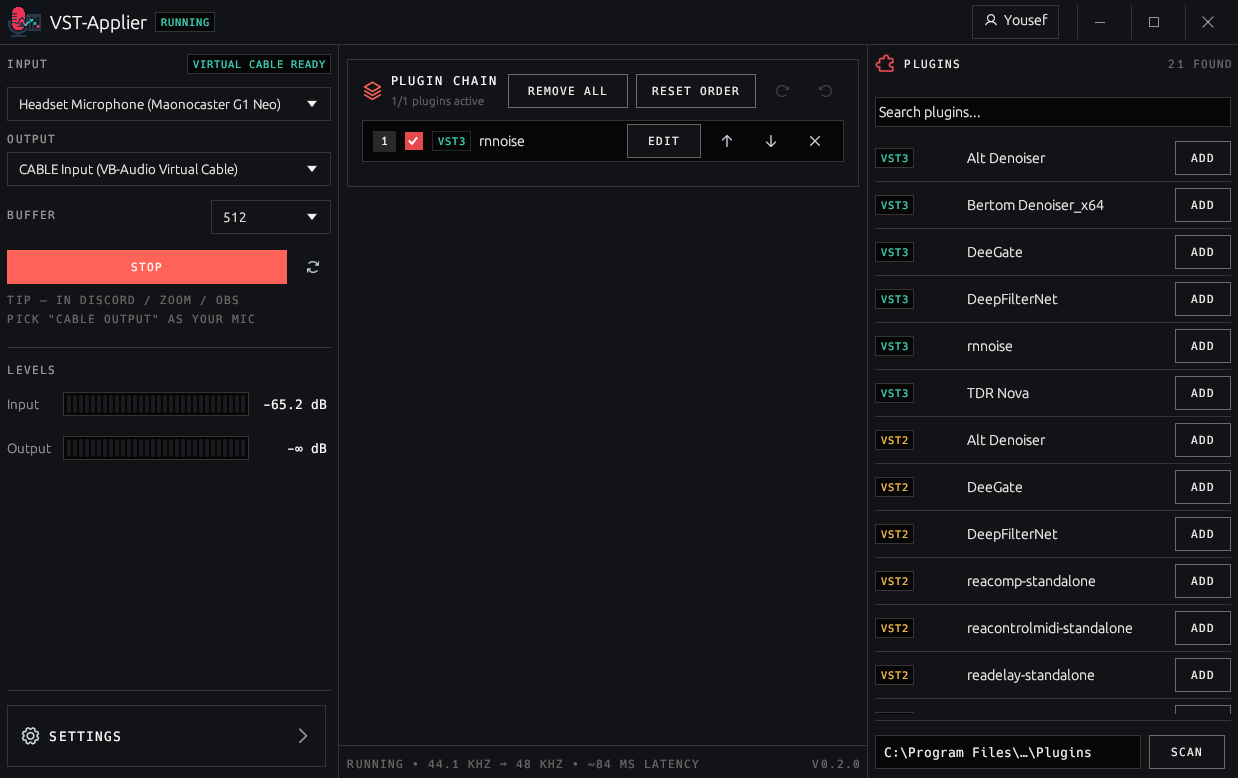
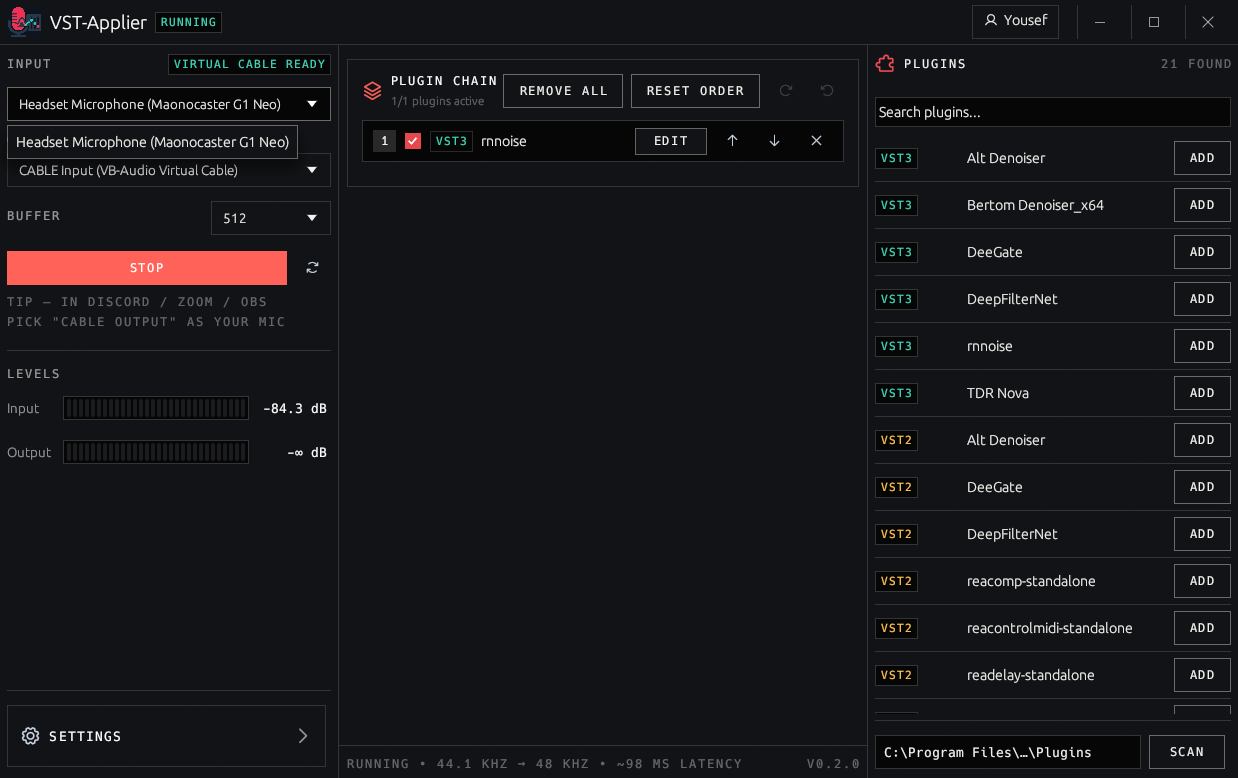
ui: balance row controls vs text — hud/mono labels 11->12, badges 10->11, checkbox 20->18 with lighter check, arrow/x glyphs 16->14.5 in tighter cells, chain EDIT 34->27 tall

diff --git a/src/icons.rs b/src/icons.rs
@@ -113,7 +113,7 @@ fn glyph_str(kind: Glyph) -> &'static str {
 /// Ghost button with a font glyph. Hover inverts to white/black like
 /// the launcher's header cells, so row actions read instantly.
 pub fn glyph_button(ui: &mut Ui, kind: Glyph, tip: &str) -> egui::Response {
-    let (rect, resp) = ui.allocate_exact_size(Vec2::new(36.0, 28.0), egui::Sense::click());
+    let (rect, resp) = ui.allocate_exact_size(Vec2::new(34.0, 28.0), egui::Sense::click());
     let p = ui.painter();
     let invert = resp.hovered() && resp.enabled();
     if resp.is_pointer_button_down_on() {
@@ -136,7 +136,7 @@ pub fn glyph_button(ui: &mut Ui, kind: Glyph, tip: &str) -> egui::Response {
         rect.center(),
         egui::Align2::CENTER_CENTER,
         glyph_str(kind),
-        egui::FontId::proportional(16.0),
+        egui::FontId::proportional(14.5),
         color,
     );
     resp.on_hover_text(tip)
@@ -144,15 +144,15 @@ pub fn glyph_button(ui: &mut Ui, kind: Glyph, tip: &str) -> egui::Response {
 
 /// Red enable/disable checkbox (reference style). Returns true on toggle.
 pub fn checkbox_red(ui: &mut Ui, checked: &mut bool) -> bool {
-    let (rect, resp) = ui.allocate_exact_size(Vec2::splat(20.0), egui::Sense::click());
+    let (rect, resp) = ui.allocate_exact_size(Vec2::splat(18.0), egui::Sense::click());
     let p = ui.painter();
     let inner = rect.shrink(1.0);
     if *checked {
         p.rect_filled(inner, egui::CornerRadius::ZERO, crate::theme::CHECK_RED);
-        let s = egui::Stroke::new(2.0_f32, egui::Color32::WHITE);
+        let s = egui::Stroke::new(1.7_f32, egui::Color32::WHITE);
         let at = |x: f32, y: f32| egui::pos2(rect.min.x + x, rect.min.y + y);
-        p.line_segment([at(5.5, 10.0), at(8.3, 12.8)], s);
-        p.line_segment([at(8.3, 12.8), at(13.0, 6.8)], s);
+        p.line_segment([at(4.8, 9.2), at(7.3, 11.6)], s);
+        p.line_segment([at(7.3, 11.6), at(11.9, 6.2)], s);
     } else {
         p.rect_stroke(
             inner,

diff --git a/src/theme.rs b/src/theme.rs
@@ -65,8 +65,9 @@ pub const RADIUS_LG: u8 = 0;
 
 /// Height of buttons, inputs, combos (their `CONTROL_H`).
 pub const CONTROL_H: f32 = 34.0;
-/// `.hud-label`: 11 px mono, upper case, 0.15 em apart.
-pub const HUD_SIZE: f32 = 11.0;
+/// `.hud-label`: 12 px mono, upper case, 0.15 em apart — 11 px read too
+/// small next to the 20 px control glyphs.
+pub const HUD_SIZE: f32 = 12.0;
 pub const HUD_SPACING: f32 = 1.65;
 /// Buttons: 11 px mono, upper case, 0.12 em apart.
 pub const BUTTON_SPACING: f32 = 1.32;
@@ -201,12 +202,12 @@ pub fn tag(ui: &mut egui::Ui, text: &str, fill: Color32, ink: Color32) -> egui::
     resp
 }
 
-/// A small square status badge: 10 px mono on the sunken surface (their
+/// A small square status badge: 11 px mono on the sunken surface (their
 /// `widgets::badge`). Hairline-outlined, hard edges.
 pub fn badge(ui: &mut egui::Ui, text: &str, color: Color32) -> egui::Response {
-    let galley = caps_galley(ui, text, 10.0, 1.0, color);
+    let galley = caps_galley(ui, text, 11.0, 1.0, color);
     let (rect, resp) =
-        ui.allocate_exact_size(egui::vec2(galley.size().x + 12.0, 20.0), egui::Sense::hover());
+        ui.allocate_exact_size(egui::vec2(galley.size().x + 12.0, 21.0), egui::Sense::hover());
     ui.painter().rect(
         rect,
         egui::CornerRadius::ZERO,

diff --git a/src/main.rs b/src/main.rs
@@ -2341,7 +2341,13 @@ impl eframe::App for App {
                                         let ed_open = self.editors.iter().any(|(idx, _)| *idx == i);
                                         let ed_txt = if ed_open { "Edit •" } else { "Edit" };
                                         let ed_btn = ui.add_enabled_ui(item.attached, |ui| {
-                                            theme::button(ui, ed_txt, theme::BtnKind::Secondary, 74.0)
+                                            theme::button_sized(
+                                                ui,
+                                                ed_txt,
+                                                theme::BtnKind::Secondary,
+                                                72.0,
+                                                27.0,
+                                            )
                                         }).inner;
                                         let ed_btn = ed_btn.on_hover_text(if item.attached {
                                             "Open/close plugin editor"
